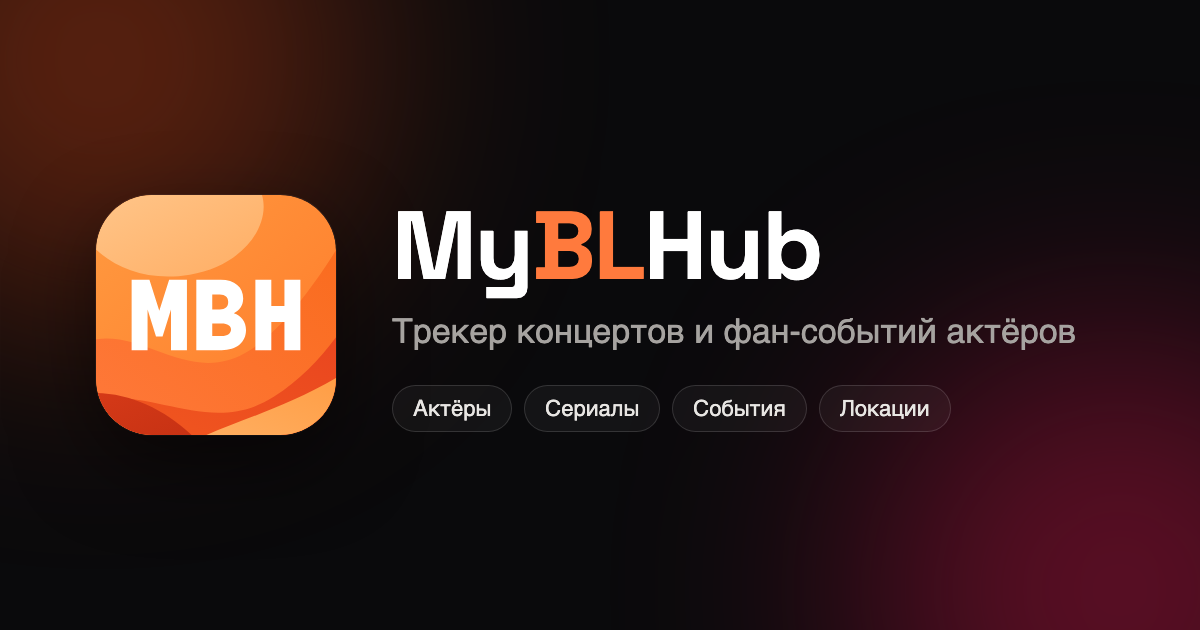
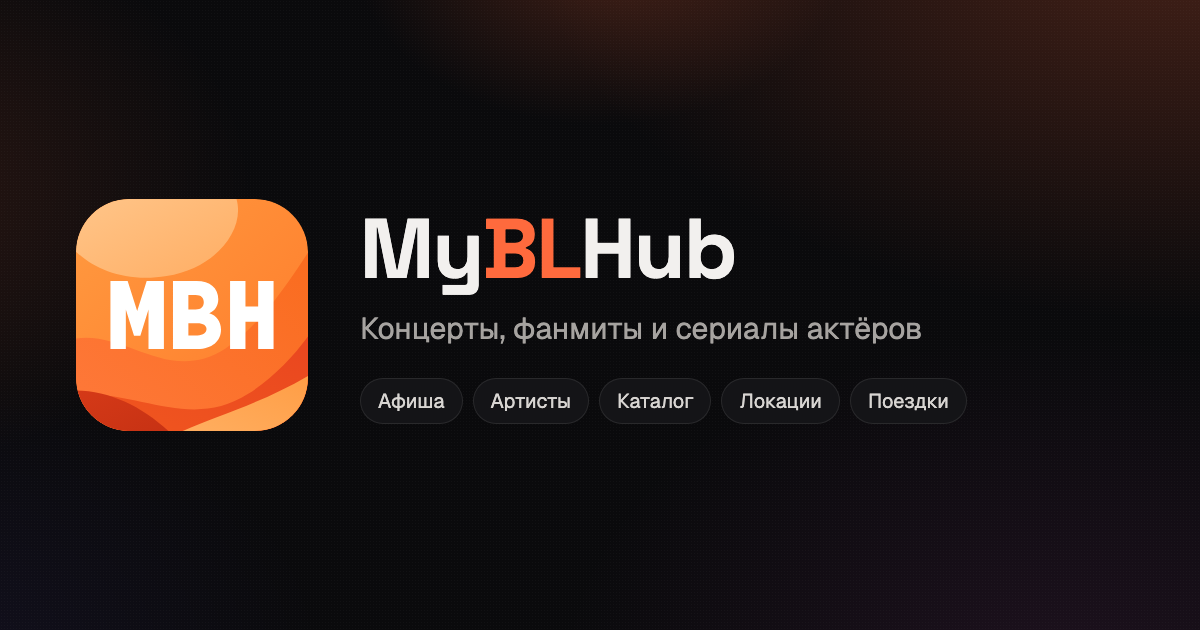
Превью сайта: фон как на сайте, актуальные разделы, знак из источника
og-default.png пересобрана скриптом, который берёт знак из
public/icons/logo.svg, фон из globals.css и шрифт вордмарка из
--font-display. Фиолетово-бордовый угол, которого на сайте нет, заменён
оранжевым свечением ambient-wash. Подпись и чипы разделов приведены к
тому, что на сайте: Афиша, Артисты, Каталог, Локации, Поездки.

diff --git a/scripts/generate-og-default.ts b/scripts/generate-og-default.ts
@@ -1,0 +1,107 @@
+/**
+ * Пересобирает `public/og-default.png` — картинку, которую видят в
+ * превью ссылки на сайт (мессенджеры, соцсети, выдача поиска). Запасная
+ * на весь сайт: у страниц с постером своя, см. `src/lib/seo.tsx`.
+ *
+ * Рисуется в настоящем браузере, а не в SVG-рендерере: так знак, шрифты
+ * и фон — те же самые, что на сайте, и картинка не расходится с ним при
+ * следующей правке. Источники берём из проекта:
+ *  - знак: `public/icons/logo.svg` (он же фавикон, src/app/icon.svg);
+ *  - фон: база `--bs-body-bg` и градиенты `.ambient-wash` из globals.css;
+ *  - шрифт: Space Grotesk, как `--font-display`;
+ *  - подписи: разделы из словаря `nav` и короткое описание сайта.
+ *
+ * Запуск (нужен интернет — шрифт тянется из Google Fonts):
+ *   npx tsx scripts/generate-og-default.ts
+ */
+import { readFileSync } from "node:fs";
+import { chromium } from "playwright";
+
+const OUT = "public/og-default.png";
+const WIDTH = 1200;
+const HEIGHT = 630;
+
+/** Разделы сайта — как в шапке (src/lib/i18n/ru/nav.ts). Пять, а не
+ *  все: в одну строку больше не помещается, а перенос одного чипа на
+ *  вторую строку выглядит обрывком. */
+const SECTIONS = ["Афиша", "Артисты", "Каталог", "Локации", "Поездки"];
+/** Короткое описание — из ui.siteDescription, без перечисления после двоеточия. */
+const TAGLINE = "Концерты, фанмиты и сериалы актёров";
+
+async function main() {
+  const logo = readFileSync("public/icons/logo.svg", "utf8");
+
+  const html = `<!doctype html>
+<html><head><meta charset="utf-8">
+<link rel="preconnect" href="https://fonts.googleapis.com">
+<link rel="preconnect" href="https://fonts.gstatic.com" crossorigin>
+<link href="https://fonts.googleapis.com/css2?family=Space+Grotesk:wght@500;700&family=Geist:wght@400;500&display=swap" rel="stylesheet">
+<style>
+  * { margin: 0; padding: 0; box-sizing: border-box; }
+  body {
+    width: ${WIDTH}px; height: ${HEIGHT}px; overflow: hidden;
+    /* Те же цвета, что у сайта: --bs-body-bg и --bs-body-color. */
+    background: #0a0a0c; color: #f2f0ee;
+    font-family: "Geist", system-ui, sans-serif;
+  }
+  /* Копия .ambient-wash из globals.css, пересчитанная из rem в пиксели
+     под 1200×630: оранжевые пятна сверху, едва заметный холодный низ. */
+  .wash {
+    position: absolute; inset: 0;
+    background:
+      radial-gradient(1040px 640px at 100% -15%, rgba(255, 106, 61, 0.26), transparent 65%),
+      radial-gradient(720px 480px at -15% 30%, rgba(255, 106, 61, 0.15), transparent 60%),
+      radial-gradient(450px 320px at 50% -8%, rgba(255, 106, 61, 0.22), transparent 55%),
+      radial-gradient(830px 580px at 88% 108%, rgba(200, 80, 190, 0.10), transparent 60%),
+      radial-gradient(700px 480px at -8% 105%, rgba(120, 90, 255, 0.08), transparent 60%);
+  }
+  /* Точечная сетка — как .ambient-wash::before, чтобы фон не был плоским. */
+  .grain {
+    position: absolute; inset: 0;
+    background-image: radial-gradient(rgba(255,255,255,0.028) 1px, transparent 1px);
+    background-size: 3px 3px;
+  }
+  .row { position: relative; display: flex; align-items: center; gap: 52px; height: 100%; padding: 0 76px; }
+  .mark { width: 232px; height: 232px; flex: 0 0 232px; }
+  .mark svg { width: 100%; height: 100%; display: block; border-radius: 52px; }
+  .wordmark {
+    font-family: "Space Grotesk", system-ui, sans-serif;
+    font-weight: 700; font-size: 84px; letter-spacing: -0.02em; line-height: 1;
+  }
+  .wordmark b { color: #ff6a3d; font-weight: 700; }
+  .tagline { margin-top: 18px; font-size: 30px; color: #a6a3a0; }
+  .chips { margin-top: 30px; display: flex; flex-wrap: wrap; gap: 10px; }
+  .chip {
+    font-size: 20px; color: #d8d5d2; white-space: nowrap;
+    padding: 9px 17px; border-radius: 999px;
+    background: #141417; border: 1px solid rgba(255,255,255,0.09);
+  }
+</style></head>
+<body>
+  <div class="wash"></div>
+  <div class="grain"></div>
+  <div class="row">
+    <div class="mark">${logo}</div>
+    <div>
+      <div class="wordmark">My<b>BL</b>Hub</div>
+      <div class="tagline">${TAGLINE}</div>
+      <div class="chips">${SECTIONS.map((s) => `<span class="chip">${s}</span>`).join("")}</div>
+    </div>
+  </div>
+</body></html>`;
+
+  const browser = await chromium.launch();
+  const page = await browser.newPage({ viewport: { width: WIDTH, height: HEIGHT }, deviceScaleFactor: 1 });
+  await page.setContent(html, { waitUntil: "networkidle" });
+  // Шрифт мог не успеть примениться — ждём его явно, иначе надпись
+  // отрисуется системным и картинка разойдётся с сайтом.
+  await page.evaluate(() => document.fonts.ready);
+  await page.screenshot({ path: OUT, type: "png" });
+  await browser.close();
+  console.log(`Готово: ${OUT} (${WIDTH}×${HEIGHT})`);
+}
+
+main().catch((e) => {
+  console.error(e);
+  process.exit(1);
+});

diff --git a/docs/features/seo.md b/docs/features/seo.md
@@ -214,18 +214,24 @@ these responses as “soft 404s”»). Next вставляет в поток
 в полный адрес.
 
 Страницы без своей картинки отдают `public/og-default.png` (1200×630):
-знак MBH (см. [pwa.md](pwa.md), пересобрана 2026-09-18 вместе с новым
-знаком), вордмарк MyBLHub («BL» оранжевым — это бренд),
-подпись «Трекер концертов и фан-событий актёров» и чипы разделов
-(Актёры, Сериалы, События, Локации). Подпись — по канону словаря: «BL»
-и «тайских» в витринных текстах не используем вовсе, у бренда в
-вордмарке «BL» остаётся.
-Пересобрать картинку можно одноразовым скриптом: HTML (тёмный фон
-`#0a0a0c` с фиолетово-бордовыми свечениями по углам, Space Grotesk 700
-для вордмарка, системный sans для кириллицы, иконка —
-`public/icons/logo.svg` data-URI со свечением) рендерится в Playwright
-окном 1200×630 и снимается скриншотом — отдельной зависимости для
-генерации картинок в проекте нет.
+знак MBH (см. [pwa.md](pwa.md)), вордмарк MyBLHub («BL» оранжевым — это
+бренд), подпись «Концерты, фанмиты и сериалы актёров» и чипы разделов
+(Афиша, Артисты, Каталог, Локации, Поездки). Подпись — по канону
+словаря: «BL» и «тайских» в витринных текстах не используем вовсе, у
+бренда в вордмарке «BL» остаётся; разделы — те же, что в шапке.
+
+Пересобирает её **`scripts/generate-og-default.ts`** (правка владельца
+2026-09-22: «обновить фавикон на картинке превью, проверить, что там
+верная инфа, и заменить фиолетовый фон на тот, что на сайте»). Скрипт
+рисует картинку в Playwright окном 1200×630 и снимает скриншотом —
+отдельной зависимости для генерации картинок в проекте нет. Всё, из
+чего она собрана, берётся из самого проекта, чтобы превью не разъезжалось
+с сайтом при следующей правке: знак — `public/icons/logo.svg` (он же
+фавикон), фон — база `--bs-body-bg` и градиенты `.ambient-wash` из
+globals.css (оранжевые пятна сверху, холодный след снизу; прежний
+фиолетово-бордовый угол был ни на что на сайте не похож), шрифт
+вордмарка — Space Grotesk, как `--font-display`. Шрифт тянется из
+Google Fonts, так что для прогона нужен интернет.
 
 **`og:image:width/height` пишутся только когда размер известен.** У
 дефолтной картинки — всегда (1200×630 — её реальный размер), у картинок
